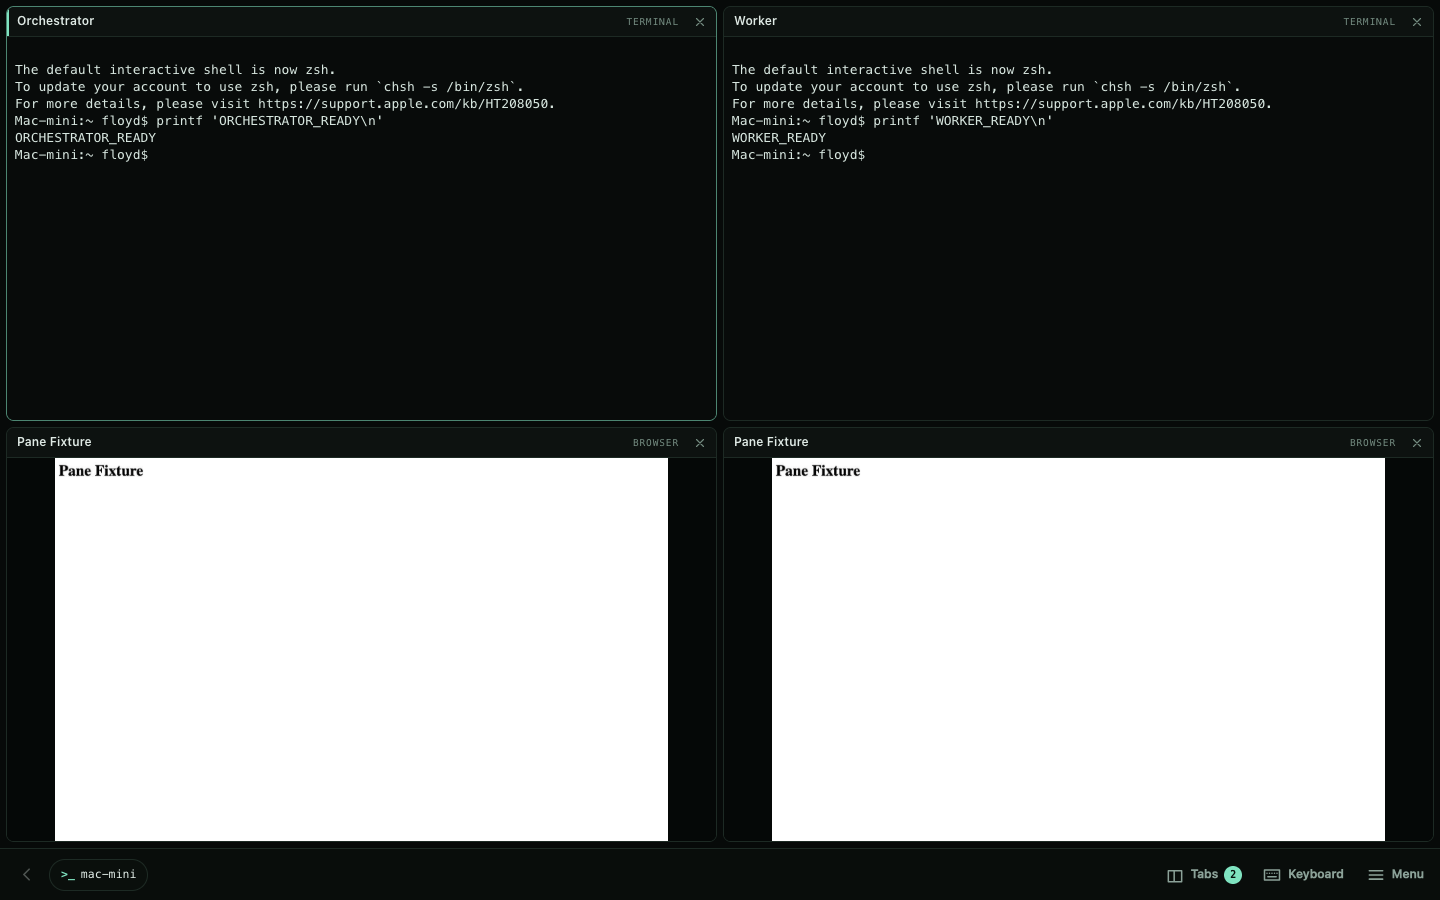
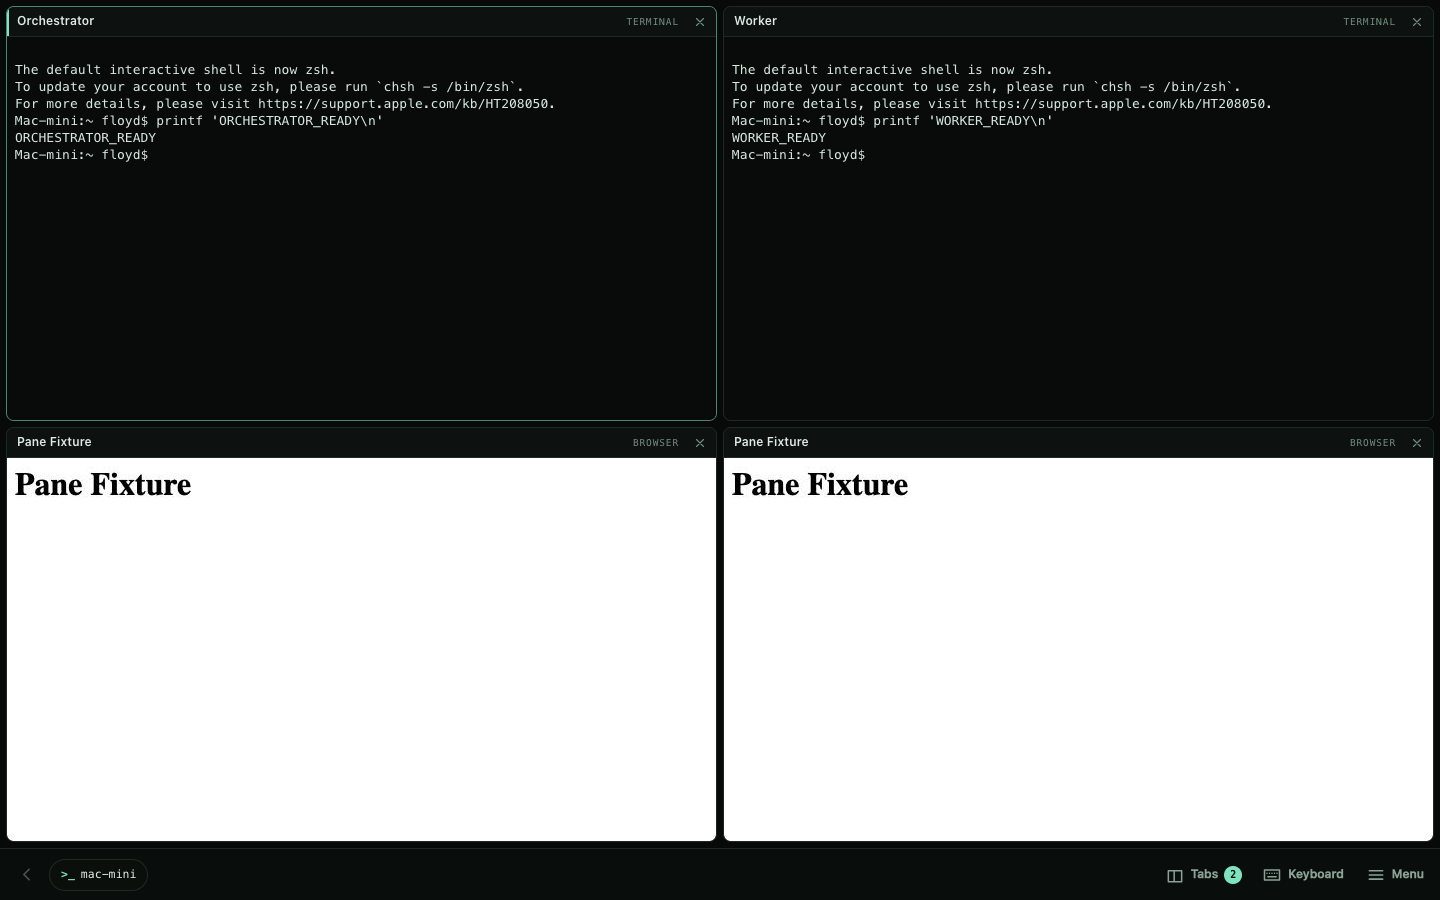
feat(panes): restore workspace tabs and panes after restart
- Persist tab titles, pane kinds, terminal cwd, browser URL and active tab.
- Restore the workspace on the next server start; PTYs start fresh but the layout survives.
- Isolate pane tests from real state; add a two-boot persistence test.
- Record persistence evidence and refresh the pane captures.

Changed region(s): [[0.4375, 0.4978, 0.625, 0.9333], [0.0, 0.4978, 0.1562, 0.9333], [0.9375, 0.4978, 1.0, 0.9333]]

diff --git a/src/workspace-panes.js b/src/workspace-panes.js
@@ -25,11 +25,16 @@ function installWorkspacePanes(app, browserWorkspace, options = {}) {
     fs.writeFileSync(tokenFile, token, { mode: 0o600 });
   }
   try { fs.chmodSync(tokenFile, 0o600); } catch (_) { /* best effort */ }
+  const stateDir = process.env.TOWNMOUSE_STATE_DIR || path.join(os.homedir(), '.townmouse');
+  const stateFile = path.join(stateDir, 'workspace.json');
 
   const tabs = new Map();
   const panes = new Map();
   let activeTabId = null;
   let activePaneId = null;
+  let restored = false;
+  let restorePromise = null;
+  let saveTimer = null;
 
   const id = (prefix) => prefix + '_' + crypto.randomBytes(6).toString('hex');
   const route = (fn) => async (req, res) => {
@@ -55,6 +60,7 @@ function installWorkspacePanes(app, browserWorkspace, options = {}) {
     const tab = { id: id('t'), title: title || `Workspace ${tabs.size + 1}`, panes: [] };
     tabs.set(tab.id, tab);
     if (!activeTabId) activeTabId = tab.id;
+    scheduleSave();
     return tab;
   }
 
@@ -70,6 +76,7 @@ function installWorkspacePanes(app, browserWorkspace, options = {}) {
     const pane = {
       id: id('p'), tabId, kind: kind === 'browser' ? 'browser' : 'terminal',
       title: opts.title || '', titleLocked: Boolean(opts.title), url: '', browserId: null, pty: null,
+      cwd: opts.cwd || null,
       buffer: '', bufferStart: 0, totalOffset: 0, streams: new Set(),
       cols: 100, rows: 30, exited: false, createdAt: Date.now()
     };
@@ -98,10 +105,11 @@ function installWorkspacePanes(app, browserWorkspace, options = {}) {
         TOWNMOUSE_PANE_ID: pane.id,
         TOWNMOUSE_PANES_CLI: cliPath
       };
+      pane.cwd = opts.cwd || os.homedir();
       const shell = resolveShell();
       const child = pty.spawn(shell, ['-l'], {
         name: 'xterm-256color', cols: pane.cols, rows: pane.rows,
-        cwd: opts.cwd || os.homedir(), env
+        cwd: pane.cwd, env
       });
       pane.pty = child;
       child.onData((data) => {
@@ -118,7 +126,71 @@ function installWorkspacePanes(app, browserWorkspace, options = {}) {
     }
     tab.panes.push(pane);
     panes.set(pane.id, pane);
+    scheduleSave();
     return pane;
+  }
+
+  function scheduleSave() {
+    if (!restored) return;
+    if (saveTimer) clearTimeout(saveTimer);
+    saveTimer = setTimeout(() => {
+      saveTimer = null;
+      saveState().catch(() => { /* the next mutation retries */ });
+    }, 150).unref?.();
+  }
+
+  async function saveState() {
+    const list = [...tabs.values()];
+    const activeIndex = Math.max(0, list.findIndex((tab) => tab.id === activeTabId));
+    const activeTab = list[activeIndex];
+    const activePaneIndex = activeTab
+      ? Math.max(0, activeTab.panes.findIndex((pane) => pane.id === activePaneId))
+      : 0;
+    const payload = {
+      version: 1,
+      savedAt: new Date().toISOString(),
+      activeTabIndex: activeIndex,
+      activePaneIndex,
+      tabs: list.map((tab) => ({
+        title: tab.title,
+        panes: tab.panes.map((pane) => ({
+          kind: pane.kind,
+          title: pane.titleLocked ? pane.title : undefined,
+          url: pane.kind === 'browser' ? pane.url : undefined,
+          cwd: pane.kind === 'terminal' ? pane.cwd : undefined
+        }))
+      }))
+    };
+    await fs.promises.mkdir(stateDir, { recursive: true, mode: 0o700 });
+    const temp = stateFile + '.tmp';
+    await fs.promises.writeFile(temp, JSON.stringify(payload, null, 2), { mode: 0o600 });
+    await fs.promises.rename(temp, stateFile);
+  }
+
+  async function restoreState() {
+    let saved;
+    try { saved = JSON.parse(await fs.promises.readFile(stateFile, 'utf8')); }
+    catch (_) { return; }
+    if (!saved || !Array.isArray(saved.tabs)) return;
+    for (const savedTab of saved.tabs.slice(0, MAX_TABS)) {
+      const tab = createTab(typeof savedTab.title === 'string' ? savedTab.title : 'Workspace');
+      for (const savedPane of (savedTab.panes || []).slice(0, MAX_PANES_PER_TAB)) {
+        try {
+          await createPane(tab.id, savedPane.kind === 'browser' ? 'browser' : 'terminal', {
+            title: typeof savedPane.title === 'string' ? savedPane.title : undefined,
+            url: typeof savedPane.url === 'string' ? savedPane.url : undefined,
+            cwd: typeof savedPane.cwd === 'string' ? savedPane.cwd : undefined
+          });
+        } catch (_) { /* one bad pane must not lose the rest of the workspace */ }
+      }
+    }
+    const list = [...tabs.values()];
+    if (!list.length) return;
+    const active = list[Math.min(Math.max(0, Number(saved.activeTabIndex) || 0), list.length - 1)];
+    if (!active) return;
+    activeTabId = active.id;
+    const pane = active.panes[Math.min(Math.max(0, Number(saved.activePaneIndex) || 0), Math.max(0, active.panes.length - 1))];
+    activePaneId = pane ? pane.id : (active.panes[0]?.id || null);
   }
 
   function serializePane(pane) {
@@ -147,12 +219,17 @@ function installWorkspacePanes(app, browserWorkspace, options = {}) {
       limits: { maxTabs: MAX_TABS, maxPanesPerTab: MAX_PANES_PER_TAB, maxTerminalPanes: MAX_TERMINAL_PANES }
     };
   }
-  async function ensureInitial() {
-    if (tabs.size) return;
-    const tab = createTab('Workspace 1');
-    const pane = await createPane(tab.id, 'terminal', { title: 'Orchestrator' });
-    activeTabId = tab.id;
-    activePaneId = pane.id;
+  function ensureInitial() {
+    if (!restorePromise) {
+      restorePromise = restoreState().catch(() => { /* corrupt state is not fatal */ }).then(() => { restored = true; });
+    }
+    return restorePromise.then(async () => {
+      if (tabs.size) return;
+      const tab = createTab('Workspace 1');
+      const pane = await createPane(tab.id, 'terminal', { title: 'Orchestrator' });
+      activeTabId = tab.id;
+      activePaneId = pane.id;
+    });
   }
   function killPty(pane) {
     if (!pane.pty) return;
@@ -174,6 +251,7 @@ function installWorkspacePanes(app, browserWorkspace, options = {}) {
       const next = tab && tab.panes[0];
       activePaneId = next ? next.id : null;
     }
+    scheduleSave();
   }
 
   app.get('/api/panes/bootstrap', route(async (req, res) => {
@@ -183,12 +261,14 @@ function installWorkspacePanes(app, browserWorkspace, options = {}) {
     await ensureInitial();
     res.json({ token, state: state(), api: apiUrl });
   }));
-  app.get('/api/panes/state', auth, route(async (req, res) => res.json(state())));
+  app.get('/api/panes/state', auth, route(async (req, res) => { await ensureInitial(); res.json(state()); }));
   app.post('/api/panes/tabs', auth, route(async (req, res) => {
+    await ensureInitial();
     const tab = createTab(typeof req.body.title === 'string' ? req.body.title.slice(0, 80) : '');
     if (req.body.activate !== false) {
       activeTabId = tab.id;
       activePaneId = tab.panes[0]?.id || null;
+      scheduleSave();
     }
     res.json(serializeTab(tab));
   }));
@@ -202,9 +282,11 @@ function installWorkspacePanes(app, browserWorkspace, options = {}) {
       activeTabId = next ? next.id : null;
       activePaneId = next?.panes[0]?.id || null;
     }
+    scheduleSave();
     res.json({ closed: true, state: state() });
   }));
   app.post('/api/panes/tabs/:id/panes', auth, route(async (req, res) => {
+    await ensureInitial();
     const pane = await createPane(req.params.id, req.body.kind, {
       url: req.body.url, cwd: req.body.cwd, title: req.body.title
     });
@@ -219,6 +301,7 @@ function installWorkspacePanes(app, browserWorkspace, options = {}) {
   app.post('/api/panes/active', auth, route(async (req, res) => {
     if (req.body.tabId && tabs.has(req.body.tabId)) activeTabId = req.body.tabId;
     if (req.body.paneId && panes.has(req.body.paneId)) activePaneId = req.body.paneId;
+    scheduleSave();
     res.json(state());
   }));
   app.post('/api/panes/panes/:id/url', auth, route(async (req, res) => {
@@ -227,6 +310,7 @@ function installWorkspacePanes(app, browserWorkspace, options = {}) {
     const browser = await browserWorkspace.navigate(pane.browserId, req.body.url);
     pane.url = browser.url;
     if (!pane.titleLocked) pane.title = browser.title || pane.title;
+    scheduleSave();
     res.json(serializePane(pane));
   }));
   app.post('/api/panes/panes/:id/browser/action', auth, route(async (req, res) => {
@@ -235,6 +319,7 @@ function installWorkspacePanes(app, browserWorkspace, options = {}) {
     const browser = await browserWorkspace.action(pane.browserId, req.body.action, req.body);
     pane.url = browser.url;
     if (!pane.titleLocked) pane.title = browser.title || pane.title;
+    if (!['click', 'type', 'key', 'scroll'].includes(req.body.action)) scheduleSave();
     res.json(serializePane(pane));
   }));
   app.get('/api/panes/panes/:id/browser/snapshot', auth, route(async (req, res) => {
@@ -312,6 +397,7 @@ function installWorkspacePanes(app, browserWorkspace, options = {}) {
   }));
 
   async function closeAll() {
+    if (restored) await saveState().catch(() => { /* best effort on shutdown */ });
     for (const pane of [...panes.values()]) {
       killPty(pane);
       if (pane.kind === 'browser' && pane.browserId) {

diff --git a/docs/evidence/panes/README.md b/docs/evidence/panes/README.md
@@ -76,3 +76,11 @@ The archival tests are `codex-fixes-test.cjs`, `input-batch-test.cjs`, and
 - The `panes` CLI creates agent tabs in the background by default; `--activate`
   is opt-in. Human tabs from the UI still activate.
 - The archival test is `pane-large-dialog-test.cjs`.
+
+## Persistence pass — 2026-11-15
+
+- Created a tab titled `Persisted` with a terminal pane (`cwd: /tmp`) and a
+  browser pane pointed at a local fixture, then stopped the server with SIGTERM.
+- Restarted the server against the same state directory: the tab reappeared as
+  the active tab with both panes, the terminal cwd and browser URL restored.
+- `tests/panes-persistence.test.cjs` covers this in the `test:panes` chain.
